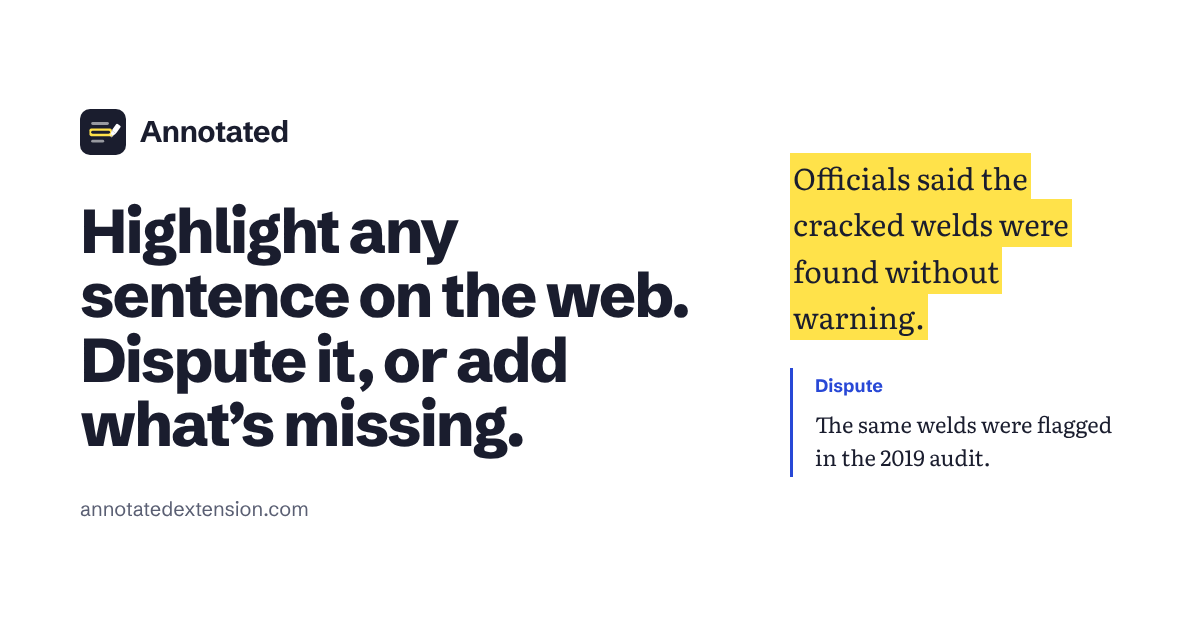
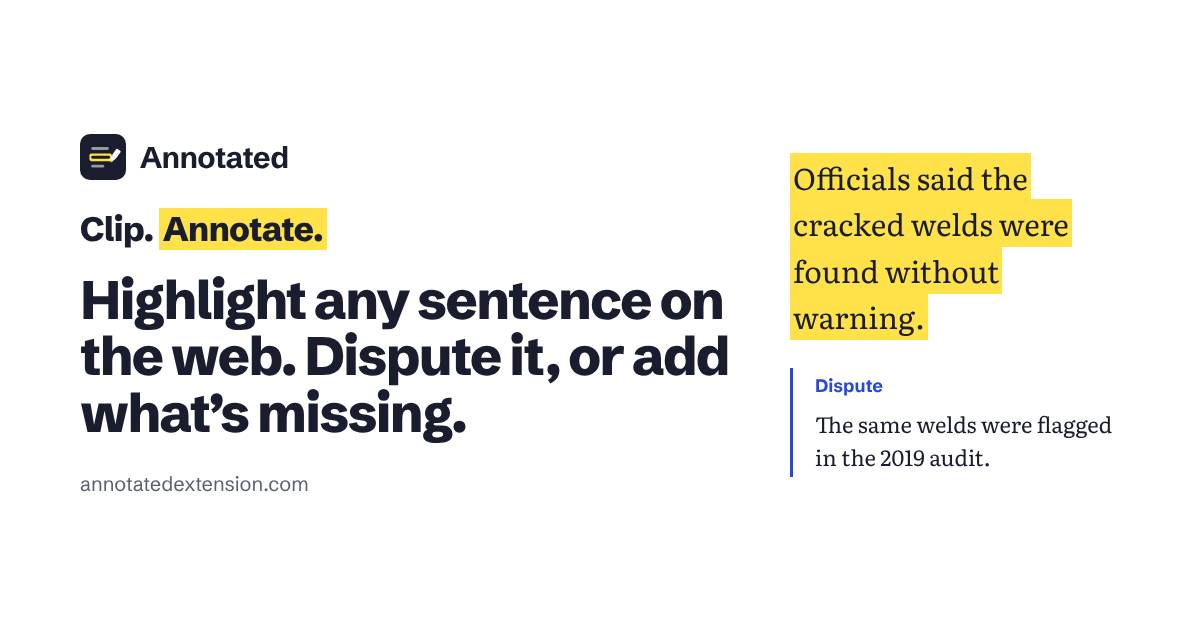
Bring back the tagline: Clip. Annotate.
Shown above the hero headline with the highlighter on Annotate, in the
page and social titles, the footer, and the Open Graph image.

Changed region(s): [[0.0617, 0.3016, 0.6167, 0.7238], [0.0617, 0.1508, 0.2467, 0.3016], [0.0617, 0.754, 0.2467, 0.8444]]

diff --git a/web/api/annotation.js b/web/api/annotation.js
@@ -55,27 +55,27 @@ ${d.stack}`)}else{var b;l=(b=o?.stack)!==null&&b!==void 0?b:""}let y=this.url.to
     <link rel="apple-touch-icon" sizes="180x180" href="/apple-touch-icon.png" />
     <meta name="theme-color" content="#ffffff" media="(prefers-color-scheme: light)" />
     <meta name="theme-color" content="#12141C" media="(prefers-color-scheme: dark)" />
-    <title>Annotated: highlight any sentence on the web and add the context</title>
+    <title>Annotated: Clip. Annotate.</title>
     <meta name="description" content="A Chrome side panel for disputing, fact-checking, and adding context to articles, videos, and podcasts. Every note stays attached to the exact line or moment, with a link back to the source." />
     <meta property="og:type" content="website" />
     <meta property="og:site_name" content="Annotated" />
     <meta property="og:url" content="https://www.annotatedextension.com/" />
-    <meta property="og:title" content="Annotated: highlight any sentence on the web and add the context" />
+    <meta property="og:title" content="Annotated: Clip. Annotate." />
     <meta property="og:description" content="Highlight a line or clip a moment, then dispute it, fact-check it, or add the context. Every note links back to the source." />
     <meta property="og:image" content="https://www.annotatedextension.com/og-image.png" />
     <meta property="og:image:width" content="1200" />
     <meta property="og:image:height" content="630" />
-    <meta property="og:image:alt" content="Annotated: a highlighted sentence with a dispute note pinned beside it" />
+    <meta property="og:image:alt" content="Annotated. Clip. Annotate. A highlighted sentence with a dispute note pinned beside it." />
     <meta name="twitter:card" content="summary_large_image" />
-    <meta name="twitter:title" content="Annotated: highlight any sentence on the web and add the context" />
+    <meta name="twitter:title" content="Annotated: Clip. Annotate." />
     <meta name="twitter:description" content="Highlight a line or clip a moment, then dispute it, fact-check it, or add the context. Every note links back to the source." />
     <meta name="twitter:image" content="https://www.annotatedextension.com/og-image.png" />
-    <meta name="twitter:image:alt" content="Annotated: a highlighted sentence with a dispute note pinned beside it" />
-    <script type="module" crossorigin src="/assets/index-CaGK9ew6.js"></script>
+    <meta name="twitter:image:alt" content="Annotated. Clip. Annotate. A highlighted sentence with a dispute note pinned beside it." />
+    <script type="module" crossorigin src="/assets/index-D2U3rVQy.js"></script>
     <link rel="modulepreload" crossorigin href="/assets/react-BXWnWPGP.js">
     <link rel="modulepreload" crossorigin href="/assets/data-BQSQrMsn.js">
     <link rel="modulepreload" crossorigin href="/assets/icons-DI7ldGyV.js">
-    <link rel="stylesheet" crossorigin href="/assets/index-B-UpU2Y_.css">
+    <link rel="stylesheet" crossorigin href="/assets/index-D9S5E2IL.css">
   </head>
   <body>
     <div id="root"></div>
@@ -92,27 +92,27 @@ ${d.stack}`)}else{var b;l=(b=o?.stack)!==null&&b!==void 0?b:""}let y=this.url.to
     <link rel="apple-touch-icon" sizes="180x180" href="/apple-touch-icon.png" />
     <meta name="theme-color" content="#ffffff" media="(prefers-color-scheme: light)" />
     <meta name="theme-color" content="#12141C" media="(prefers-color-scheme: dark)" />
-    <title>Annotated: highlight any sentence on the web and add the context</title>
+    <title>Annotated: Clip. Annotate.</title>
     <meta name="description" content="A Chrome side panel for disputing, fact-checking, and adding context to articles, videos, and podcasts. Every note stays attached to the exact line or moment, with a link back to the source." />
     <meta property="og:type" content="website" />
     <meta property="og:site_name" content="Annotated" />
     <meta property="og:url" content="https://www.annotatedextension.com/" />
-    <meta property="og:title" content="Annotated: highlight any sentence on the web and add the context" />
+    <meta property="og:title" content="Annotated: Clip. Annotate." />
     <meta property="og:description" content="Highlight a line or clip a moment, then dispute it, fact-check it, or add the context. Every note links back to the source." />
     <meta property="og:image" content="https://www.annotatedextension.com/og-image.png" />
     <meta property="og:image:width" content="1200" />
     <meta property="og:image:height" content="630" />
-    <meta property="og:image:alt" content="Annotated: a highlighted sentence with a dispute note pinned beside it" />
+    <meta property="og:image:alt" content="Annotated. Clip. Annotate. A highlighted sentence with a dispute note pinned beside it." />
     <meta name="twitter:card" content="summary_large_image" />
-    <meta name="twitter:title" content="Annotated: highlight any sentence on the web and add the context" />
+    <meta name="twitter:title" content="Annotated: Clip. Annotate." />
     <meta name="twitter:description" content="Highlight a line or clip a moment, then dispute it, fact-check it, or add the context. Every note links back to the source." />
     <meta name="twitter:image" content="https://www.annotatedextension.com/og-image.png" />
-    <meta name="twitter:image:alt" content="Annotated: a highlighted sentence with a dispute note pinned beside it" />
-    <script type="module" crossorigin src="/assets/index-CaGK9ew6.js"></script>
+    <meta name="twitter:image:alt" content="Annotated. Clip. Annotate. A highlighted sentence with a dispute note pinned beside it." />
+    <script type="module" crossorigin src="/assets/index-D2U3rVQy.js"></script>
     <link rel="modulepreload" crossorigin href="/assets/react-BXWnWPGP.js">
     <link rel="modulepreload" crossorigin href="/assets/data-BQSQrMsn.js">
     <link rel="modulepreload" crossorigin href="/assets/icons-DI7ldGyV.js">
-    <link rel="stylesheet" crossorigin href="/assets/index-B-UpU2Y_.css">
+    <link rel="stylesheet" crossorigin href="/assets/index-D9S5E2IL.css">
   </head>
   <body>
     <div id="root"></div>

diff --git a/web/client/index.html b/web/client/index.html
@@ -9,22 +9,22 @@
     <link rel="apple-touch-icon" sizes="180x180" href="/apple-touch-icon.png" />
     <meta name="theme-color" content="#ffffff" media="(prefers-color-scheme: light)" />
     <meta name="theme-color" content="#12141C" media="(prefers-color-scheme: dark)" />
-    <title>Annotated: highlight any sentence on the web and add the context</title>
+    <title>Annotated: Clip. Annotate.</title>
     <meta name="description" content="A Chrome side panel for disputing, fact-checking, and adding context to articles, videos, and podcasts. Every note stays attached to the exact line or moment, with a link back to the source." />
     <meta property="og:type" content="website" />
     <meta property="og:site_name" content="Annotated" />
     <meta property="og:url" content="https://www.annotatedextension.com/" />
-    <meta property="og:title" content="Annotated: highlight any sentence on the web and add the context" />
+    <meta property="og:title" content="Annotated: Clip. Annotate." />
     <meta property="og:description" content="Highlight a line or clip a moment, then dispute it, fact-check it, or add the context. Every note links back to the source." />
     <meta property="og:image" content="https://www.annotatedextension.com/og-image.png" />
     <meta property="og:image:width" content="1200" />
     <meta property="og:image:height" content="630" />
-    <meta property="og:image:alt" content="Annotated: a highlighted sentence with a dispute note pinned beside it" />
+    <meta property="og:image:alt" content="Annotated. Clip. Annotate. A highlighted sentence with a dispute note pinned beside it." />
     <meta name="twitter:card" content="summary_large_image" />
-    <meta name="twitter:title" content="Annotated: highlight any sentence on the web and add the context" />
+    <meta name="twitter:title" content="Annotated: Clip. Annotate." />
     <meta name="twitter:description" content="Highlight a line or clip a moment, then dispute it, fact-check it, or add the context. Every note links back to the source." />
     <meta name="twitter:image" content="https://www.annotatedextension.com/og-image.png" />
-    <meta name="twitter:image:alt" content="Annotated: a highlighted sentence with a dispute note pinned beside it" />
+    <meta name="twitter:image:alt" content="Annotated. Clip. Annotate. A highlighted sentence with a dispute note pinned beside it." />
   </head>
   <body>
     <div id="root"></div>

diff --git a/web/client/src/index.css b/web/client/src/index.css
@@ -479,6 +479,7 @@ h1, h2, h3 { text-wrap: balance; }
   font-size: 0.88rem;
 }
 .mk-footer nav a:hover { color: hsl(var(--foreground)); }
+.mk-footer-brand p.mk-footer-tagline { margin-top: 0.75rem; color: hsl(var(--foreground)); font-weight: 700; font-size: 0.95rem; }
 .mk-footer small { grid-column: 1 / -1; color: hsl(var(--muted-foreground)); font-size: 0.8rem; }
 
 /* ---- Landing -------------------------------------------------------------- */
@@ -505,6 +506,18 @@ h1, h2, h3 { text-wrap: balance; }
   font-weight: 800;
   line-height: 0.98;
   letter-spacing: -0.04em;
+}
+.lp-tagline {
+  margin: 0 0 1.1rem;
+  font-size: clamp(1.25rem, 2vw, 1.6rem);
+  font-weight: 800;
+  letter-spacing: -0.025em;
+  line-height: 1.2;
+}
+.lp-tagline mark {
+  color: hsl(var(--highlight-ink));
+  background: linear-gradient(100deg, hsl(var(--highlight) / 0.92), hsl(var(--highlight) / 0.8) 60%, hsl(var(--highlight) / 0.95)) no-repeat 0 75% / 100% 70%;
+  padding: 0 0.12em;
 }
 .lp-hero-side > p:first-child {
   margin: 0;
@@ -928,6 +941,7 @@ h1, h2, h3 { text-wrap: balance; }
 }
 @media (max-width: 1023px) {
   .lp-hero-copy { grid-template-columns: 1fr; align-items: start; }
+  .lp-tagline { margin-bottom: 0.8rem; }
   .wb { grid-template-columns: minmax(0, 1fr) 19rem; }
   .lp-kinds-list { grid-template-columns: repeat(2, minmax(0, 1fr)); }
   .lp-recent ul { grid-template-columns: 1fr 1fr; }

diff --git a/web/client/src/pages/landing.tsx b/web/client/src/pages/landing.tsx
@@ -599,7 +599,12 @@ export default function LandingPage() {
       <main>
         <section className="lp-hero" aria-labelledby="hero-title">
           <div className="lp-hero-copy">
-            <h1 id="hero-title">Highlight any sentence on the web. Dispute it, or add what’s missing.</h1>
+            <div>
+              <p className="lp-tagline">
+                Clip. <mark>Annotate.</mark>
+              </p>
+              <h1 id="hero-title">Highlight any sentence on the web. Dispute it, or add what’s missing.</h1>
+            </div>
             <div className="lp-hero-side">
               <p>
                 Annotated is a Chrome side panel for fact-checking and adding context to articles, videos, and

diff --git a/web/client/src/main.tsx b/web/client/src/main.tsx
@@ -69,7 +69,7 @@ if (path === "/privacy" || path === "/privacy/") {
   root.render(<App />);
 } else if ((path === "/" || path === "") && !window.location.hash) {
   // Bare / → landing page. The app feed is at /feed (path) or /#/ (hash).
-  document.title = "Annotated: highlight any sentence on the web and add the context";
+  document.title = "Annotated: Clip. Annotate.";
   root.render(<LandingPage />);
 } else {
   if (!window.location.hash) {

diff --git a/web/client/src/components/MarketingChrome.tsx b/web/client/src/components/MarketingChrome.tsx
@@ -81,6 +81,7 @@ export function MarketingFooter() {
       <div className="mk-footer-inner">
         <div className="mk-footer-brand">
           <Logo />
+          <p className="mk-footer-tagline">Clip. Annotate.</p>
           <p>Every note stays attached to the exact line or moment it is about.</p>
         </div>
         <nav aria-label="Footer">
